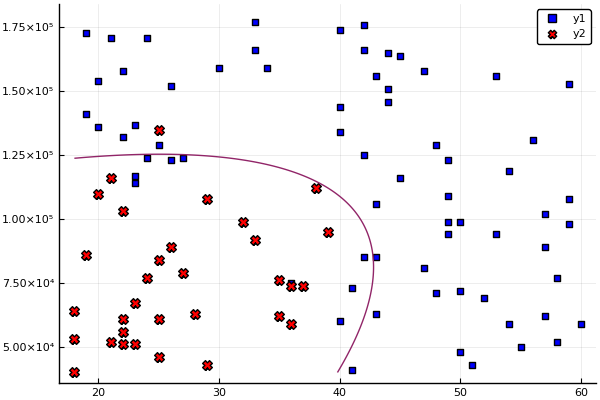
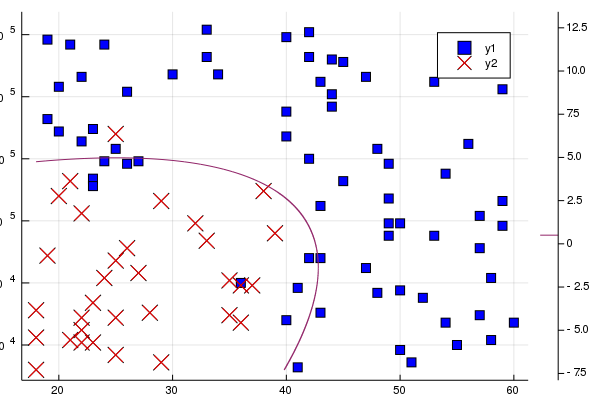
build based on 364bcc5

diff --git a/dev/search_index.js b/dev/search_index.js
@@ -77,7 +77,7 @@ var documenterSearchIndex = {"docs": [
     "page": "Tutorial",
     "title": "Manual input",
     "category": "section",
-    "text": "This is an example where we specify the problem and its derivatives manually. For this, we create an NLPModel, and we need to define the following API functions:obj(nlp, x): objective\ngrad!(nlp, x, g): gradient\ncons!(nlp, x, c): constraints, if any\nrows, cols = jac_structure(nlp): structure of the Jacobian, if constrained;\njac_coord!(nlp, x, rows, cols, vals): Jacobian values (the user should not attempt to access rows and cols, as Ipopt doesn\'t actually pass them);\nhess_structure(nlp): structure of the lower triangle of the Hessian of the Lagrangian;\nhess_coord!(nlp, x, rows, cols, vals; obj_weight=1.0, y=[]): Hessian of the Lagrangian, where obj_weight is the weight assigned to the objective, and y is the multipliers vector (the user should not attempt to access rows and cols, as Ipopt doesn\'t actually pass them).Let\'s implement a logistic regression model. We consider the model h(beta x) = (1 + e^-beta^Tx)^-1, and the loss functionell(beta) = -sum_i = 1^m y_i ln h(beta x_i) + (1 - y_i) ln(1 - h(beta x_i))with regularization lambda beta^2  2.using DataFrames, LinearAlgebra, NLPModels, NLPModelsIpopt, Random\n\nmutable struct LogisticRegression <: AbstractNLPModel\n  X :: Matrix\n  y :: Vector\n  λ :: Real\n  meta :: NLPModelMeta # required by AbstractNLPModel\n  counters :: Counters # required by AbstractNLPModel\nend\n\nfunction LogisticRegression(X, y, λ = 0.0)\n  m, n = size(X)\n  meta = NLPModelMeta(n, name=\"LogisticRegression\", nnzh=div(n * (n+1), 2) + n) # nnzh is the length of the coordinates vectors\n  return LogisticRegression(X, y, λ, meta, Counters())\nend\n\nfunction NLPModels.obj(nlp :: LogisticRegression, β::AbstractVector)\n  hβ = 1 ./ (1 .+ exp.(-nlp.X * β))\n  return -sum(nlp.y .* log.(hβ .+ 1e-8) .+ (1 .- nlp.y) .* log.(1 .- hβ .+ 1e-8)) + nlp.λ * dot(β, β) / 2\nend\n\nfunction NLPModels.grad!(nlp :: LogisticRegression, β::AbstractVector, g::AbstractVector)\n  hβ = 1 ./ (1 .+ exp.(-nlp.X * β))\n  g .= nlp.X\' * (hβ .- nlp.y) + nlp.λ * β\nend\n\nfunction NLPModels.hess_structure(nlp :: LogisticRegression)\n  n = nlp.meta.nvar\n  I = ((i,j) for i = 1:n, j = 1:n if i ≥ j)\n  return [getindex.(I, 1); 1:n], [getindex.(I, 2); 1:n]\nend\n\nfunction NLPModels.hess_coord!(nlp :: LogisticRegression, β::AbstractVector, rows::AbstractVector{<: Integer}, cols::AbstractVector{<: Integer}, vals::AbstractVector; obj_weight=1.0, y=Float64[])\n  n, m = nlp.meta.nvar, length(nlp.y)\n  hβ = 1 ./ (1 .+ exp.(-nlp.X * β))\n  fill!(vals, 0.0)\n  for k = 1:m\n    hk = hβ[k]\n    p = 1\n    for j = 1:n, i = j:n\n      vals[p] += obj_weight * hk * (1 - hk) * nlp.X[k,i] * nlp.X[k,j]\n      p += 1\n    end\n  end\n  vals[nlp.meta.nnzh+1:end] .= nlp.λ * obj_weight\n  return rows, cols, vals\nend\n\nRandom.seed!(0)\n\n# Training set\nm = 1000\ndf = DataFrame(:age => rand(18:60, m), :salary => rand(40:180, m) * 1000)\ndf[:buy] = (df.age .> 40 .+ randn(m) * 5) .| (df.salary .> 120_000 .+ randn(m) * 10_000)\n\nX = [ones(m) df.age df.age.^2 df.salary df.salary.^2 df.age .* df.salary]\ny = df.buy\n\nλ = 1.0e-2\nnlp = LogisticRegression(X, y, λ)\nstats = ipopt(nlp, print_level=0)\nβ = stats.solution\n\n# Test set - same generation method\nm = 100\ndf = DataFrame(:age => rand(18:60, m), :salary => rand(40:180, m) * 1000)\ndf[:buy] = (df.age .> 40 .+ randn(m) * 5) .| (df.salary .> 120_000 .+ randn(m) * 10_000)\n\nX = [ones(m) df.age df.age.^2 df.salary df.salary.^2 df.age .* df.salary]\nhβ = 1 ./ (1 .+ exp.(-X * β))\nypred = hβ .> 0.5\n\nacc = count(df.buy .== ypred) / m\nprintln(\"acc = $acc\")using Plots\npyplot()\n\nf(a, b) = dot(β, [1.0; a; a^2; b; b^2; a * b])\nP = findall(df.buy .== true)\nscatter(df.age[P], df.salary[P], c=:blue, m=:square)\nP = findall(df.buy .== false)\nscatter!(df.age[P], df.salary[P], c=:red, m=:xcross, ms=7)\ncontour!(range(18, 60, step=0.1), range(40_000, 180_000, step=1.0), f, levels=[0.5])\npng(\"ex3\")using Plots\npyplot()\n\nf(a, b) = dot(β, [1.0; a; a^2; b; b^2; a * b])\nP = findall(df.buy .== true)\nscatter(df.age[P], df.salary[P], c=:blue, m=:square)\nP = findall(df.buy .== false)\nscatter!(df.age[P], df.salary[P], c=:red, m=:xcross, ms=7)\ncontour!(range(18, 60, step=0.1), range(40_000, 180_000, step=1.0), f, levels=[0.5])(Image: )"
+    "text": "This is an example where we specify the problem and its derivatives manually. For this, we create an NLPModel, and we need to define the following API functions:obj(nlp, x): objective\ngrad!(nlp, x, g): gradient\ncons!(nlp, x, c): constraints, if any\nrows, cols = jac_structure(nlp): structure of the Jacobian, if constrained;\njac_coord!(nlp, x, rows, cols, vals): Jacobian values (the user should not attempt to access rows and cols, as Ipopt doesn\'t actually pass them);\nhess_structure(nlp): structure of the lower triangle of the Hessian of the Lagrangian;\nhess_coord!(nlp, x, rows, cols, vals; obj_weight=1.0, y=[]): Hessian of the Lagrangian, where obj_weight is the weight assigned to the objective, and y is the multipliers vector (the user should not attempt to access rows and cols, as Ipopt doesn\'t actually pass them).Let\'s implement a logistic regression model. We consider the model h(beta x) = (1 + e^-beta^Tx)^-1, and the loss functionell(beta) = -sum_i = 1^m y_i ln h(beta x_i) + (1 - y_i) ln(1 - h(beta x_i))with regularization lambda beta^2  2.using DataFrames, LinearAlgebra, NLPModels, NLPModelsIpopt, Random\n\nmutable struct LogisticRegression <: AbstractNLPModel\n  X :: Matrix\n  y :: Vector\n  λ :: Real\n  meta :: NLPModelMeta # required by AbstractNLPModel\n  counters :: Counters # required by AbstractNLPModel\nend\n\nfunction LogisticRegression(X, y, λ = 0.0)\n  m, n = size(X)\n  meta = NLPModelMeta(n, name=\"LogisticRegression\", nnzh=div(n * (n+1), 2) + n) # nnzh is the length of the coordinates vectors\n  return LogisticRegression(X, y, λ, meta, Counters())\nend\n\nfunction NLPModels.obj(nlp :: LogisticRegression, β::AbstractVector)\n  hβ = 1 ./ (1 .+ exp.(-nlp.X * β))\n  return -sum(nlp.y .* log.(hβ .+ 1e-8) .+ (1 .- nlp.y) .* log.(1 .- hβ .+ 1e-8)) + nlp.λ * dot(β, β) / 2\nend\n\nfunction NLPModels.grad!(nlp :: LogisticRegression, β::AbstractVector, g::AbstractVector)\n  hβ = 1 ./ (1 .+ exp.(-nlp.X * β))\n  g .= nlp.X\' * (hβ .- nlp.y) + nlp.λ * β\nend\n\nfunction NLPModels.hess_structure(nlp :: LogisticRegression)\n  n = nlp.meta.nvar\n  I = ((i,j) for i = 1:n, j = 1:n if i ≥ j)\n  return [getindex.(I, 1); 1:n], [getindex.(I, 2); 1:n]\nend\n\nfunction NLPModels.hess_coord!(nlp :: LogisticRegression, β::AbstractVector, rows::AbstractVector{<: Integer}, cols::AbstractVector{<: Integer}, vals::AbstractVector; obj_weight=1.0, y=Float64[])\n  n, m = nlp.meta.nvar, length(nlp.y)\n  hβ = 1 ./ (1 .+ exp.(-nlp.X * β))\n  fill!(vals, 0.0)\n  for k = 1:m\n    hk = hβ[k]\n    p = 1\n    for j = 1:n, i = j:n\n      vals[p] += obj_weight * hk * (1 - hk) * nlp.X[k,i] * nlp.X[k,j]\n      p += 1\n    end\n  end\n  vals[nlp.meta.nnzh+1:end] .= nlp.λ * obj_weight\n  return rows, cols, vals\nend\n\nRandom.seed!(0)\n\n# Training set\nm = 1000\ndf = DataFrame(:age => rand(18:60, m), :salary => rand(40:180, m) * 1000)\ndf[:buy] = (df.age .> 40 .+ randn(m) * 5) .| (df.salary .> 120_000 .+ randn(m) * 10_000)\n\nX = [ones(m) df.age df.age.^2 df.salary df.salary.^2 df.age .* df.salary]\ny = df.buy\n\nλ = 1.0e-2\nnlp = LogisticRegression(X, y, λ)\nstats = ipopt(nlp, print_level=0)\nβ = stats.solution\n\n# Test set - same generation method\nm = 100\ndf = DataFrame(:age => rand(18:60, m), :salary => rand(40:180, m) * 1000)\ndf[:buy] = (df.age .> 40 .+ randn(m) * 5) .| (df.salary .> 120_000 .+ randn(m) * 10_000)\n\nX = [ones(m) df.age df.age.^2 df.salary df.salary.^2 df.age .* df.salary]\nhβ = 1 ./ (1 .+ exp.(-X * β))\nypred = hβ .> 0.5\n\nacc = count(df.buy .== ypred) / m\nprintln(\"acc = $acc\")using Plots\ngr()\n\nf(a, b) = dot(β, [1.0; a; a^2; b; b^2; a * b])\nP = findall(df.buy .== true)\nscatter(df.age[P], df.salary[P], c=:blue, m=:square)\nP = findall(df.buy .== false)\nscatter!(df.age[P], df.salary[P], c=:red, m=:xcross, ms=7)\ncontour!(range(18, 60, step=0.1), range(40_000, 180_000, step=1.0), f, levels=[0.5])\npng(\"ex3\")using Plots\ngr()\n\nf(a, b) = dot(β, [1.0; a; a^2; b; b^2; a * b])\nP = findall(df.buy .== true)\nscatter(df.age[P], df.salary[P], c=:blue, m=:square)\nP = findall(df.buy .== false)\nscatter!(df.age[P], df.salary[P], c=:red, m=:xcross, ms=7)\ncontour!(range(18, 60, step=0.1), range(40_000, 180_000, step=1.0), f, levels=[0.5])(Image: )"
 },
 
 {

diff --git a/dev/tutorial/index.html b/dev/tutorial/index.html
@@ -70,17 +70,18 @@ Number of inequality constraint evaluations          = 0
 Number of equality constraint Jacobian evaluations   = 0
 Number of inequality constraint Jacobian evaluations = 0
 Number of Lagrangian Hessian evaluations             = 21
-Total CPU secs in IPOPT (w/o function evaluations)   =      0.980
-Total CPU secs in NLP function evaluations           =      0.212
+Total CPU secs in IPOPT (w/o function evaluations)   =      0.932
+Total CPU secs in NLP function evaluations           =      0.208
 
 EXIT: Optimal Solution Found.
 Generic Execution stats
   status: &quot;first-order stationary&quot;
   objective value: 3.743975643139474e-21
   dual feasibility: 3.732500974666708e-10
+  primal feasibility: 0.0
   solution: [1.0  1.0]
-  iterations: -1
-  elapsed time: 1.192
+  iterations: 21
+  elapsed time: 1.1400000000000001
   solver specifics:
     multipliers_U: [0.0  0.0]
     multipliers_L: [0.0  0.0]
@@ -151,8 +152,8 @@ Number of inequality constraint evaluations          = 0
 Number of equality constraint Jacobian evaluations   = 0
 Number of inequality constraint Jacobian evaluations = 0
 Number of Lagrangian Hessian evaluations             = 21
-Total CPU secs in IPOPT (w/o function evaluations)   =      3.064
-Total CPU secs in NLP function evaluations           =      1.680
+Total CPU secs in IPOPT (w/o function evaluations)   =      2.628
+Total CPU secs in NLP function evaluations           =      1.500
 
 EXIT: Optimal Solution Found.</code></pre></div><p>Another example, using a constrained problem</p><div><pre><code class="language-julia">n = 10
 x0 = ones(n)
@@ -166,9 +167,10 @@ print(stats)</code></pre><pre><code class="language-none">Generic Execution stat
   status: &quot;first-order stationary&quot;
   objective value: 6.232458632437464
   dual feasibility: 6.315907100018699e-9
+  primal feasibility: 8.354206215699378e-12
   solution: [-0.950556  0.913901  0.989091  0.998559 ⋯ 0.9999999300706429]
-  iterations: -1
-  elapsed time: 3.252
+  iterations: 6
+  elapsed time: 3.1999999999999997
   solver specifics:
     multipliers_U: [0.0  0.0  0.0  0.0 ⋯ 0.0]
     multipliers_L: [0.0  0.0  0.0  0.0 ⋯ 0.0]
@@ -247,7 +249,7 @@ ypred = hβ .&gt; 0.5
 
 acc = count(df.buy .== ypred) / m
 println(&quot;acc = $acc&quot;)</code></pre><pre><code class="language-none">acc = 0.93</code></pre></div><div></div><pre><code class="language-none">using Plots
-pyplot()
+gr()
 
 f(a, b) = dot(β, [1.0; a; a^2; b; b^2; a * b])
 P = findall(df.buy .== true)
